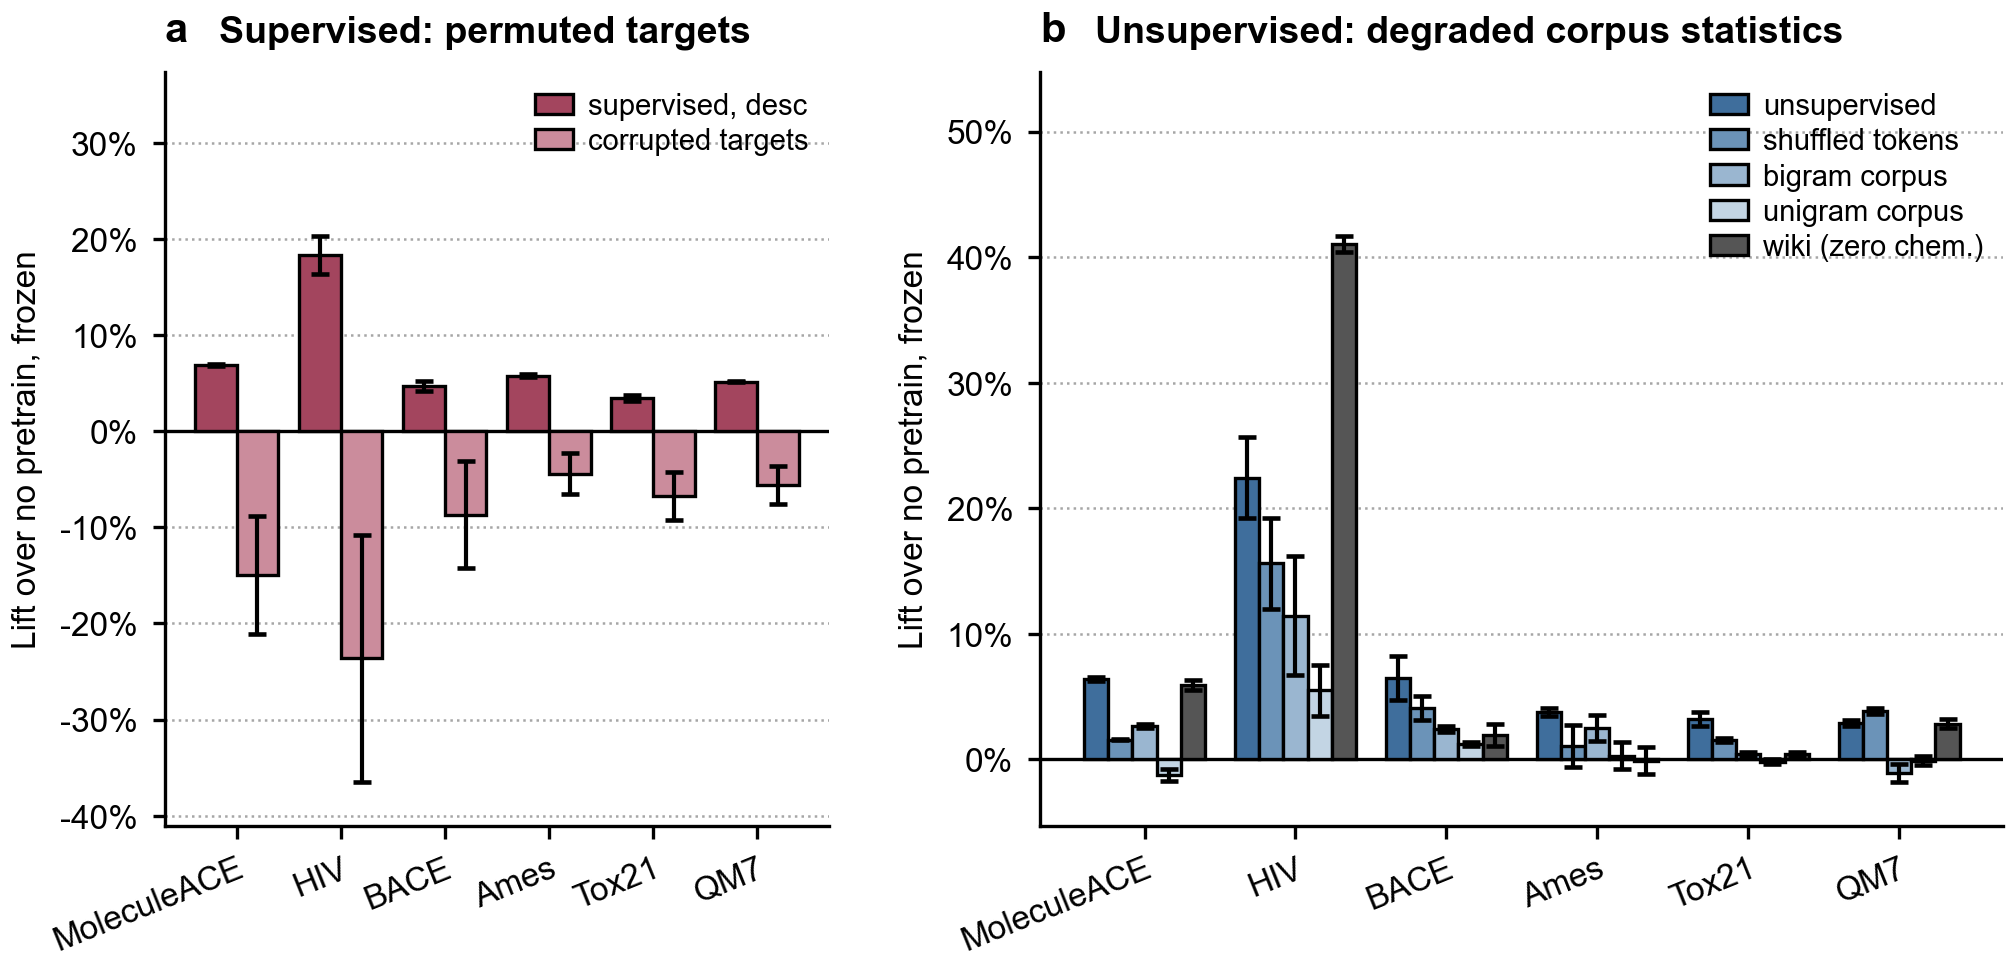
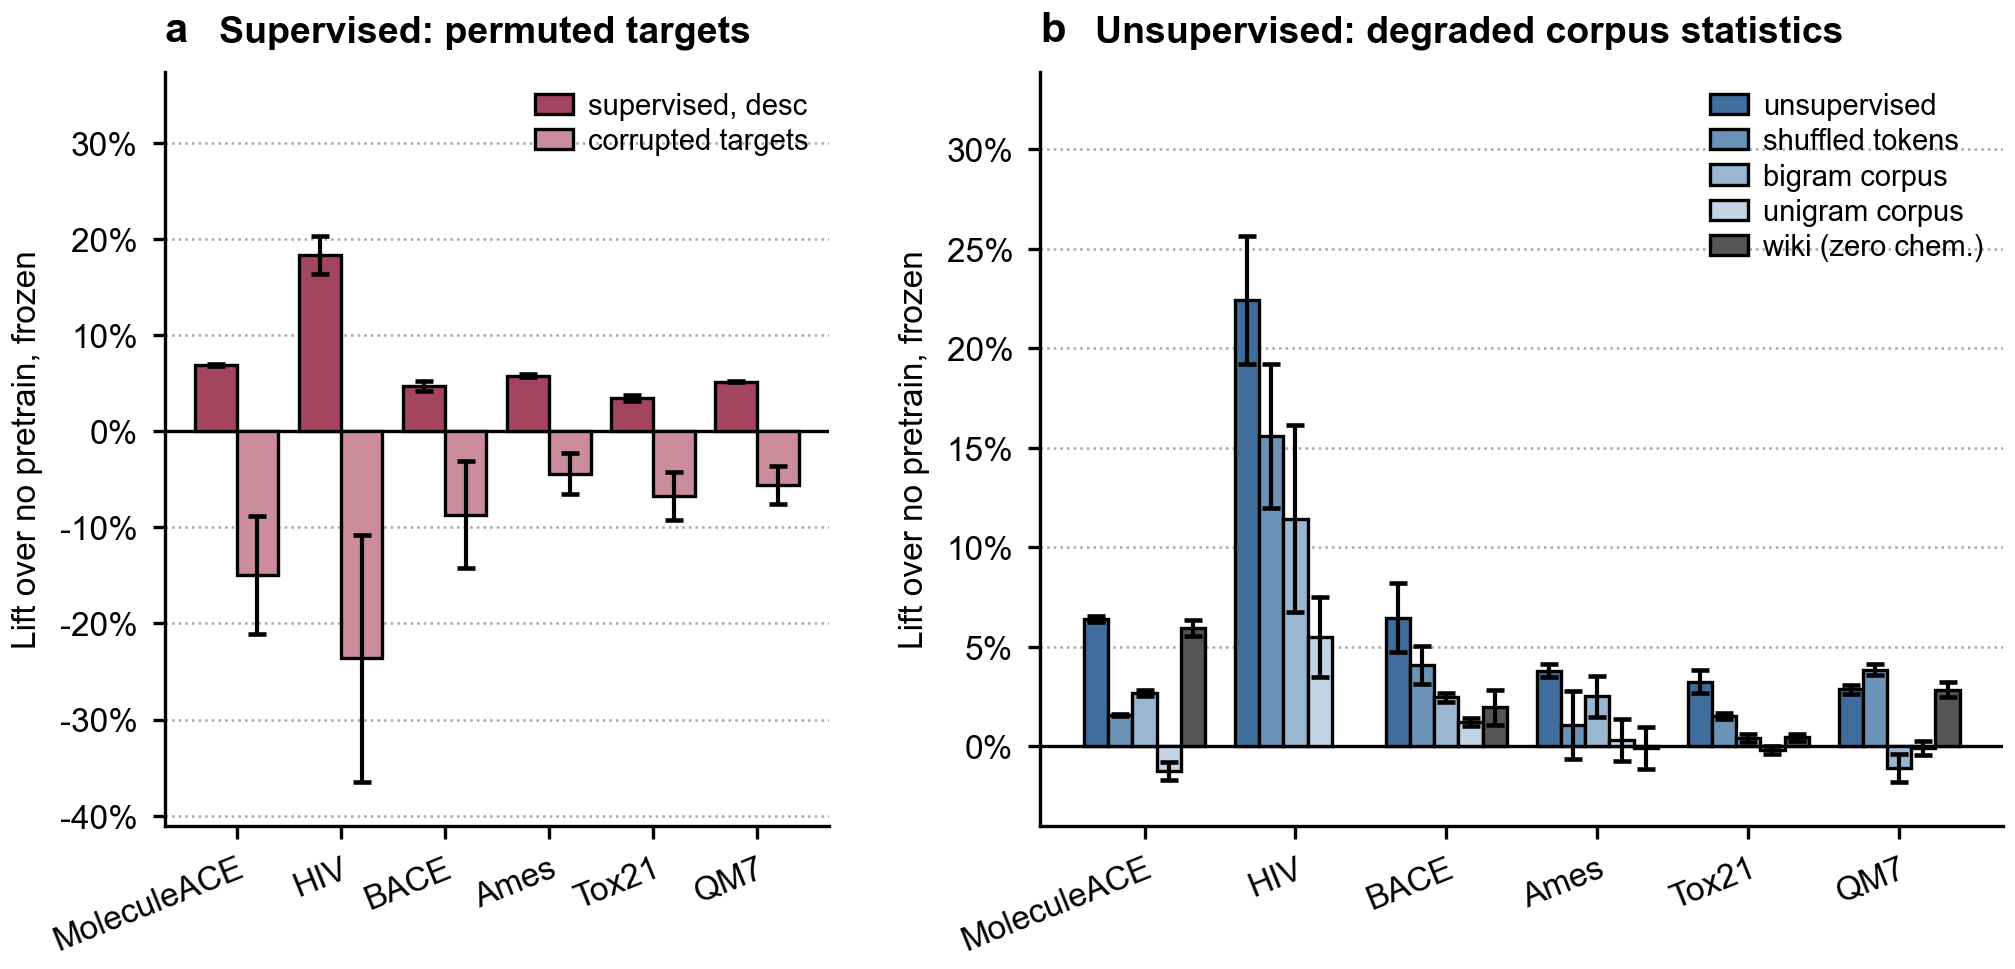
fig_E: the Wikipedia HIV cell was a ROC-AUC compared against a NEF1 floor
Leif flagged that Wikipedia pretraining looked implausibly competitive on HIV.
It was not a result. rigor_cell matched on (arm, dataset) and took .iloc[0]
without filtering on the metric the panel plots:

  expA carries BOTH nef1 and roc_auc for HIV -- the right value came back only
  because nef1 happens to sort first
  expB (Wikipedia) carries roc_auc ONLY

So the wiki cell returned ROC-AUC 0.7624, it was divided by a NEF1 floor of
0.5406, and the figure published +41.0%. That made English Wikipedia with zero
chemistry the best arm on HIV -- ahead of every fingerprint (R3FP+desc 0.759)
and every chemistry-pretrained model. Two different metrics subtracted from
each other.

rigor_cell now requires METRIC[task] and returns NaN when it is absent, which
drops the cell and leaves a visible hole. That is the honest state: expB was
never scored on NEF1 for HIV.

The source comment claimed expA/expB "carry HIV nef1 for every rung
(verified)". They do not, and the claimed verification was never true for the
wiki arm. Replaced with what is actually on disk.

No other cell moved -- the four expA arms were already reading nef1, by luck of
row order rather than by selection.

diff --git a/scripts/build_fig_E_table.py b/scripts/build_fig_E_table.py
@@ -84,9 +84,12 @@ METRIC = {"MoleculeACE": "rmse", "HIV": "nef1", "BACE": "roc_auc",
           "Ames": "roc_auc", "Tox21": "roc_auc", "QM7": "rmse"}
 # The three panels that come from the benchmark trees rather than the MolNet suite summaries.
 # HIV replaced CBS on 2026-08-19 and moved OUT of BENCH: it lives in the MoleculeNet CV tree, so
-# it is read by the same path as BACE/Tox21/QM7 -- including the expA/expB ladder summaries, which
-# carry HIV nef1 for every rung (verified: 5 folds on bigram/unigram/wiki/shuffled and the
-# baselines). CBS had needed its own tree and its own reader.
+# it is read by the same path as BACE/Tox21/QM7 -- including the expA/expB ladder summaries.
+#
+# THAT COMMENT USED TO CLAIM expA/expB "carry HIV nef1 for every rung (verified)". They do not.
+# expA carries nef1 AND roc_auc; expB (Wikipedia) carries roc_auc only. The claimed verification
+# was never true for the wiki arm, and rigor_cell did not filter on metric, so the wiki HIV cell
+# was a ROC-AUC measured against a NEF1 floor. See rigor_cell for what that produced.
 BENCH = {"MoleculeACE", "Ames"}
 MOLNET = [t for t in TASKS if t not in BENCH]                      # HIV, BACE, Tox21, QM7
 
@@ -229,8 +232,25 @@ def main() -> None:
                          "wiki": ("wiki_real", wiki)}
 
     def rigor_cell(df, arm, task):
-        r = df[(df.arm == arm) & (df.dataset == task)]
+        """One (mean, sd, n) for this arm/task, MATCHED ON THE METRIC THE PANEL PLOTS.
+
+        This used to match on (arm, dataset) only and take .iloc[0]. For HIV that is a silent
+        metric swap: expA carries BOTH nef1 and roc_auc rows, so the right value came back only
+        because nef1 happens to sort first, while expB (the Wikipedia arm) carries roc_auc ONLY --
+        so the wiki cell returned a ROC-AUC of 0.7624 and it was compared against a NEF1 floor of
+        0.5406 and published as a +41% lift. That made English Wikipedia with zero chemistry the
+        best arm on HIV, ahead of every fingerprint and every chemistry-pretrained model. It is
+        not a result, it is two different metrics subtracted from each other.
+
+        Returning NaN when the metric is absent is the point: emit() then drops the cell and the
+        figure shows a hole, which is the honest state -- expB was never scored on NEF1 for HIV.
+        """
+        m = METRIC[task]
+        r = df[(df.arm == arm) & (df.dataset == task) & (df.metric == m)]
         if not len(r):
+            print(f"  [rigor_cell] {arm} / {task}: no {m!r} row "
+                  f"(has {sorted(df[(df.arm == arm) & (df.dataset == task)].metric.unique())}) "
+                  f"-- cell dropped")
             return np.nan, np.nan, 0
         return float(r["mean"].iloc[0]), float(r["std"].iloc[0]), int(r["n_seeds"].iloc[0])
 
